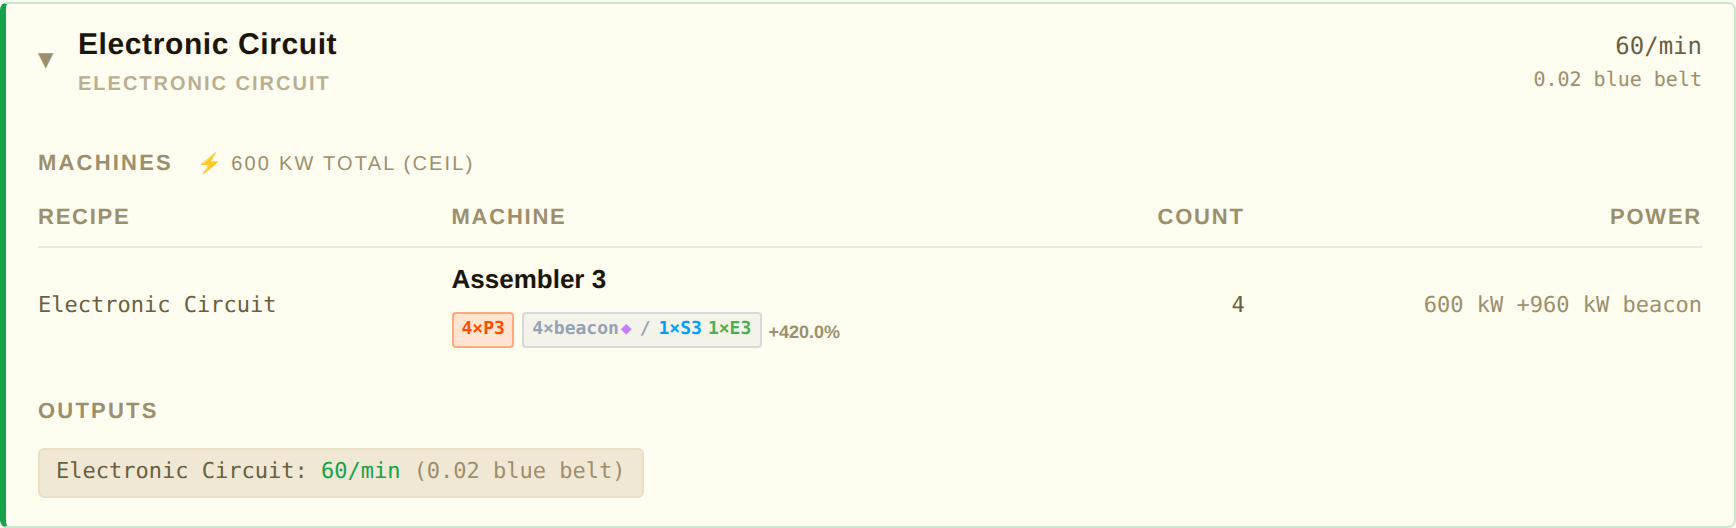
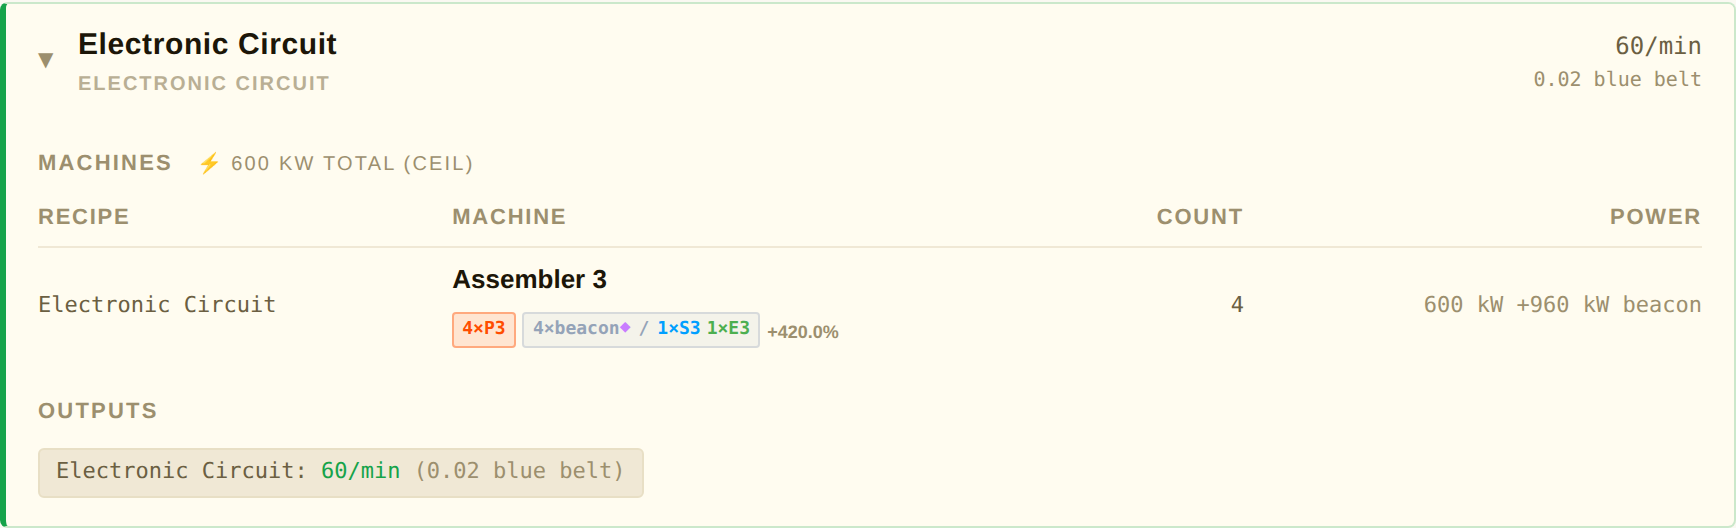
Fix qdot vertical alignment in mod-chip and bcn-chip
The quality diamond (◆) was a direct flex item in .mod-chip and .bcn-chip,
so vertical-align:middle had no effect and flex gap added unwanted space
before it. Wrapping the text+qdot in an inner <span> makes qdot inline,
restoring vertical-align:middle and removing the extra gap — matching the
already-correct beacon module qdot behaviour.

https://claude.ai/code/session_01SyKx24fZjBrdm6oV2dN8BW

diff --git a/dev/dashboard.html b/dev/dashboard.html
@@ -628,7 +628,7 @@ function modChip(m) {
   const abbr = {prod: 'P', speed: 'S', efficiency: 'E'}[m.type] ?? m.type[0].toUpperCase();
   const tCls = {prod: 'type-prod', speed: 'type-speed', efficiency: 'type-eff'}[m.type] ?? '';
   const qdot = m.quality !== 'normal' ? `<span class="qdot q-${m.quality}">◆</span>` : '';
-  return `<span class="mod-chip ${tCls}">${m.count}×${abbr}${m.tier}${qdot}</span>`;
+  return `<span class="mod-chip ${tCls}"><span>${m.count}×${abbr}${m.tier}${qdot}</span></span>`;
 }
 function bcnChip(b, housingQ) {
   const houseDot = housingQ !== 'normal' ? `<span class="qdot q-${housingQ}">◆</span>` : '';
@@ -638,7 +638,7 @@ function bcnChip(b, housingQ) {
     const qdot  = m.quality !== 'normal' ? `<span class="qdot q-${m.quality}">◆</span>` : '';
     return `<span style="color:${color}">${m.count}×${abbr}${m.tier}${qdot}</span>`;
   }).join('');
-  return `<span class="bcn-chip">${b.count}×beacon${houseDot}<span class="bcn-sep">/</span><span style="display:inline-flex;align-items:center;gap:3px">${modsHtml}</span></span>`;
+  return `<span class="bcn-chip"><span>${b.count}×beacon${houseDot}</span><span class="bcn-sep">/</span><span style="display:inline-flex;align-items:center;gap:3px">${modsHtml}</span></span>`;
 }
 
 // ── State ────────────────────────────────────────────────────────────────────
